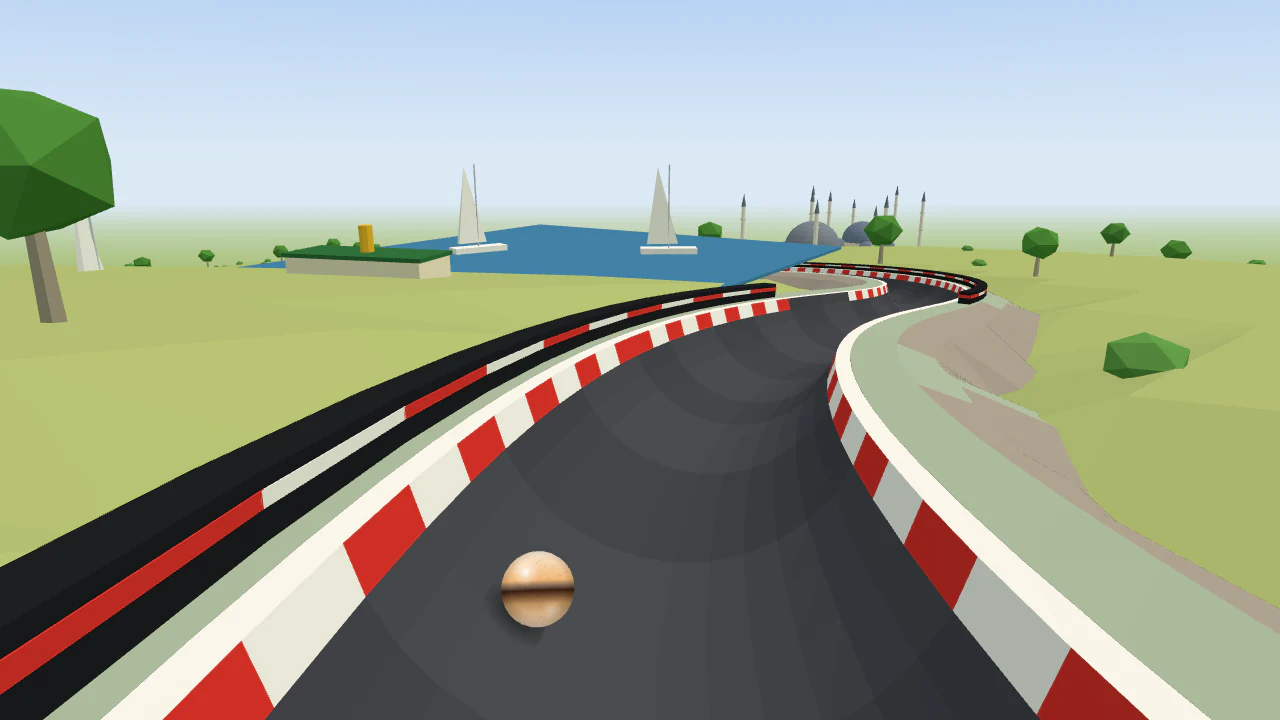
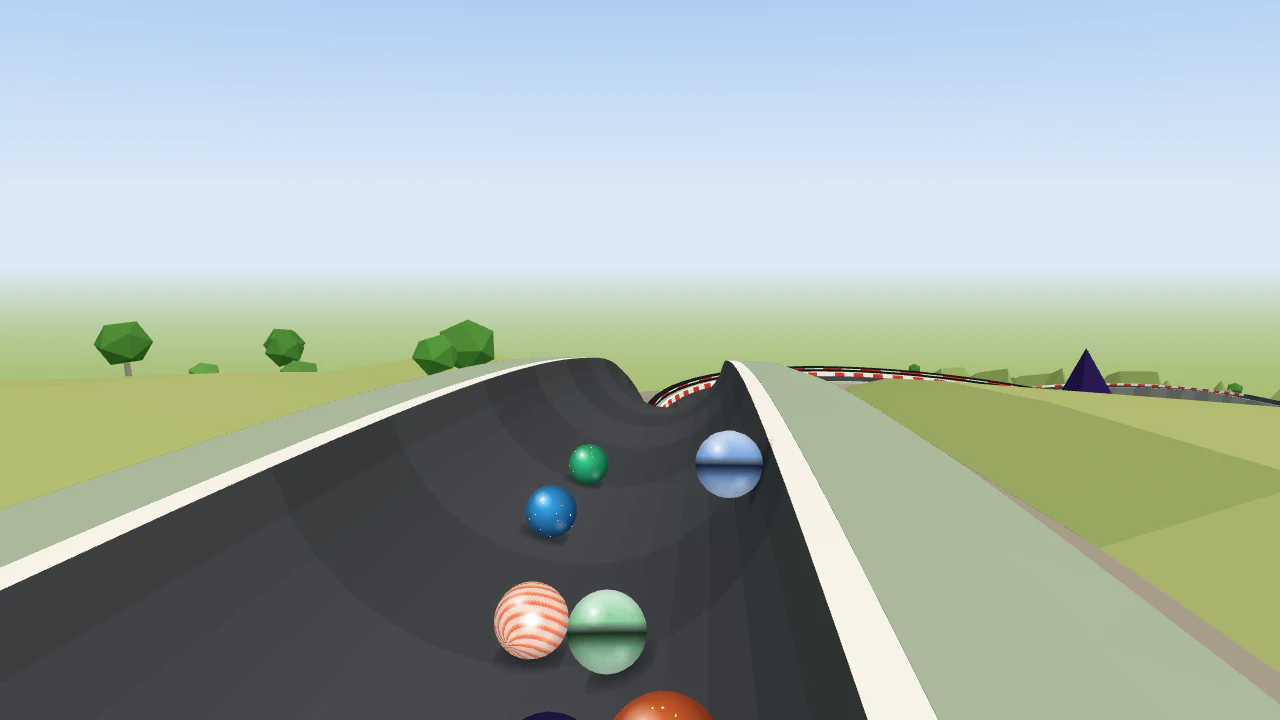
Istanbul Marble Grand Prix: its own layout; its records start again
Moses's overnight order (6 Nov 2026): no jump (the three jump tracks are used); a peg-field descent or a
bazaar tunnel spiral. Until now Istanbul raced the same race as Dubai in practice. The crest start from
the Galata Tower, the Golden Horn S-bends (a peg, a slalom, a peg), the Galata Bridge, the Grand Bazaar
spiral (the big feature: a turn and a half round the clock tower, open to the sky: a tunnel roof came too
close to the camera), the Topkapı hairpin, the Bosphorus sweep, the Ortaköy S-bends and the Bosphorus
straight; no splitter. Start shots from the side, then overhead. Full report: all 50 lines pass (winner
54.6 s, last 84.3 s, gap 16.1 s, 64 overtakes). Data update 2027-06-03-istanbul-marble-grand-prix-new-
layout.sql (--relayout: its records start again). Off the sameness test's known failures. Docs: 06,
README. Full test suite: 625 pass.

Claude-Session: https://claude.ai/code/session_011vSSkqNPL9kncfzrwF15wS

diff --git a/src/tracks/istanbul-marble-grand-prix.js b/src/tracks/istanbul-marble-grand-prix.js
@@ -1,58 +1,67 @@
 'use strict';
 
-const { track, plunge, straight, sBends, sweep, spiral, hairpin, splitter, runIn, pileUp, swipe, parked, slalom, boost, rumble } = require('../trackKit');
+// Istanbul Marble Grand Prix, its own layout (Moses, 6 Nov 2026; claude/grand-prix-relayout-plan.md). Until then it
+// raced the same race as Dubai Marble Grand Prix in practice (the Grand Prix recipe of 10 Oct 2026). Now the crest
+// start from the Galata Tower, the Golden Horn S-bends, the pegs across the Galata Bridge, the Grand Bazaar
+// spiral (the big feature: down round the clock tower; no jump, Moses: the three jump tracks are
+// used), the Topkapı hairpin, the Bosphorus sweep and the Ortaköy S-bends to the Bosphorus Bridge. Its records
+// started again with the new layout (tracks.records_since).
+const {
+  track, opening, straight, sBends, sweep, spiral, hairpin, runIn, peg, slalom, swipe, parked, rumble,
+} = require('../trackKit');
 
 module.exports = track({
   slug: 'istanbul-marble-grand-prix',
   name: 'Istanbul Marble Grand Prix',
   difficulty: 'extreme',
-  description: 'From the Galata Tower down to the Golden Horn, through the vaulted halls of the Grand Bazaar and past Hagia Sophia and the Blue Mosque to the Bosphorus.',
+  description: 'From the Galata Tower over a crest and down to the Golden Horn, across the Galata Bridge, spiralling down round the clock tower by the Grand Bazaar, past Topkapı Palace and along the Bosphorus to the bridge.',
   surface: 'asphalt',
   biome: 'city',
   lighting: 'day',
   variants: ['sunset'],
-  grandPrix: true,
-  signature: 'Grand Bazaar tunnel',
+  grandPrix: { groupsEvery: 450 }, // (the small groups of spectators further apart than usual: the drawing budget)
+  signature: 'Grand Bazaar spiral',
   tvCameras: [
-    { section: 'Grand Bazaar tunnel', at: 0.8, side: 'left', distance: 6, height: 12 },
-    { section: 'Tulip splitter', at: 0.8, side: 'left', distance: 10, height: 8 },
+    // (At the foot of the spiral, looking back up it.)
+    { section: 'Out of the bazaar', at: 0.3, side: 'right', distance: 6, height: 5 },
   ],
   billboardFrame: 'plain',
-  start: { landmark: 'galata-tower', scenery: ['colourful-houses'], shots: { countdown: 'front', launch: 'look-back' } },
+  start: { landmark: 'galata-tower', scenery: ['colourful-houses'], gate: 'barrier', shots: { countdown: 'side', launch: 'overhead' } },
   finish: { landmark: 'bosphorus-bridge', scenery: ['grandstand'] },
   designChanges: [
-    'The traffic-cone chicane is at the foot of the Galata plunge, straight after the tyre stacks, rather than on the finish straight: a start with only the tyre stacks lets the strongest marbles win too often and sends the field into the splitter sorted by strength.',
-    'The parked simit cart stands on the waterfront straight before the finish rather than in the Golden Horn S-bends: the recipe keeps parked objects to straights (on a bend one traps marbles against it).',
-    'The Tulip splitter comes straight after the Golden Horn S-bends, before the Grand Bazaar, rather than after the Palace hairpin: out of the hairpin the whole field rides one side of the channel and the splitter cannot share it out fairly (measured on Dubai Marble Grand Prix).',
-    'The Grand Bazaar\'s vaulted halls are the 50 m straight before the Palace hairpin, its braking zone, rather than a stretch of their own between the S-bends and the Old City sweep: the recipe needs a braking zone before the one sharp bend, and a longer straight after the splitter left too few overtakes (59 a race; 60 needed).',
-    'The rumble strips are on the waterfront straight between the spiral and the finish rather than on the spiral: the recipe keeps bumps off bends (marbles high on the wall are thrown off them).',
+    'A peg, a short slalom and a peg in the Golden Horn S-bends: without them the first 20 seconds raced through the same sequence as Sognefjord\'s and Chiang Mai\'s (the crest start into S-bends).',
+    'A new layout (6 Nov 2026): until then Istanbul raced the same race as Dubai Marble Grand Prix in practice (the Grand Prix recipe). No splitter now.',
+    'The crest start (the Galata plunge, its pile-up and slalom, then over a rounded crest): no other Grand Prix track opens this way, and its start shots (from the side, then overhead) are its own.',
+    'The big feature is the Grand Bazaar spiral: a turn and a half down round the clock tower, open to the sky. Drawn first inside the bazaar\'s vaulted tunnel, its roof came within 0.5 m of the follow camera on the tight turns, and market stalls round it blocked the camera, so it is open, as the plan allowed. Moses\'s other idea, a peg-field descent under Galata, is a drop (Stockholm\'s feature) and ran too slow (59.6 s winner).',
   ],
+  opening: opening('crest-start', {
+    costumes: { block: 'tyre-stack', slalom: 'traffic-cone' },
+    names: { plunge: 'Galata plunge', climb: 'Galata crest', drop: 'Down to the Golden Horn' },
+    dress: { plunge: { scenery: ['colourful-houses'] } },
+  }),
   sections: [
     {
-      name: 'Galata plunge', shape: plunge(80, { grade: 0.6 }),
-      obstacles: [pileUp({ costume: 'tyre-stack', at: 0.42 }), slalom({ costume: 'traffic-cone', from: 0.55, to: 0.97, count: 6, loss: 0.3 })],
-      scenery: ['colourful-houses'],
-    },
-    {
-      name: 'Golden Horn S-bends', shape: sBends({ first: 'left', radius: 75, degrees: 80, grade: 0.13 }), billboards: 2, scenery: ['crowd'],
+      name: 'Golden Horn S-bends', shape: sBends({ first: 'left', radius: 55, degrees: 110, grade: 0.13 }), billboards: 3,
+      obstacles: [peg({ costume: 'traffic-cone', at: 0.15, line: 'center' }), slalom({ costume: 'traffic-cone', from: 0.3, to: 0.6, count: 3, loss: 0.15 }), peg({ costume: 'traffic-cone', at: 0.75, line: 'right' })],
       landmarks: [{ name: 'harbour', at: 0.5, side: 'right', distance: 26 }],
     },
     {
-      name: 'Tulip splitter', shape: splitter({ side: 'left', balance: { tipOffset: -0.8, left: { drag: 1.32, scrub: 1.32 }, right: { drag: 0.42, scrub: 0.72 } } }),
-      around: 'tulip-garden',
+      name: 'Galata Bridge', shape: straight(40, { grade: 0.15 }),
+      obstacles: [peg({ costume: 'traffic-cone', at: 0.3, line: 'left' }), peg({ costume: 'traffic-cone', at: 0.6, line: 'right' }), peg({ costume: 'traffic-cone', at: 0.85, line: 'center' })],
     },
+    { name: 'Grand Bazaar spiral', shape: spiral({ side: 'right', radius: 42, turns: 1.5, grade: 0.2 }), around: 'clocktower' },
+    { name: 'Out of the bazaar', shape: straight(40, { grade: 0.13 }), obstacles: [slalom({ costume: 'traffic-cone', from: 0.2, to: 0.9, count: 3, loss: 0.15 })] },
+    { name: 'Topkapı hairpin', shape: hairpin({ side: 'left' }), obstacles: [swipe({ costume: 'camera-crane', side: 'high' })] },
     {
-      name: 'Old City sweep', shape: sweep({ side: 'right', radius: 80, degrees: 160, grade: 0.07 }), features: [boost({ at: 0.08 })], billboards: 4,
-      landmarks: [{ name: 'hagia-sophia', at: 0.15, side: 'left', distance: 45 }, { name: 'blue-mosque', at: 0.45, side: 'left', distance: 45 }],
+      name: 'Bosphorus sweep', shape: sweep({ side: 'right', radius: 85, degrees: 120, grade: 0.09 }), billboards: 3,
+      landmarks: [{ name: 'hagia-sophia', at: 0.2, side: 'left', distance: 45 }, { name: 'blue-mosque', at: 0.55, side: 'left', distance: 45 }],
     },
-    { name: 'Grand Bazaar tunnel', shape: straight(50, { grade: 0.12 }), tunnel: 'bazaar' },
-    { name: 'Palace hairpin', shape: hairpin({ side: 'left' }), obstacles: [swipe({ costume: 'camera-crane', side: 'high' })], scenery: ['plane-trees'] },
-    { name: 'Waterfront spiral', shape: spiral({ side: 'right', radius: 45, grade: 0.17 }) },
+    { name: 'Ortaköy S-bends', shape: sBends({ first: 'left', radius: 75, degrees: 70, grade: 0.13 }) },
     {
-      name: 'Waterfront straight', shape: straight(90, { grade: 0.15 }),
-      obstacles: [parked({ costume: 'simit-cart', at: 0.15, side: 'right', length: 4 })],
-      features: [rumble({ from: 0.55, to: 0.95, count: 4 })], billboards: 2, scenery: ['grandstand'],
-      landmarks: [{ name: 'harbour', at: 0.5, side: 'left', distance: 26 }],
+      name: 'Bosphorus straight', shape: straight(60, { grade: 0.18 }), scenery: ['grandstand'],
+      obstacles: [parked({ costume: 'simit-cart', at: 0.2, side: 'left', length: 6 })],
+      features: [rumble({ from: 0.6, to: 0.95, count: 3 })],
+      landmarks: [{ name: 'harbour', at: 0.5, side: 'right', distance: 26 }],
     },
     { name: 'Finish', shape: runIn(), scenery: ['grandstand'] },
   ],

diff --git a/test/samenessAllTracks.test.js b/test/samenessAllTracks.test.js
@@ -46,7 +46,6 @@ const KNOWN = {
   // Grand Prix (one design: Dubai's, and Sydney's mirror of it).
   'dubai-marble-grand-prix': ['opening', 'opening-kind', 'layout'],
   'sydney-marble-grand-prix': ['opening', 'opening-kind', 'layout'],
-  'istanbul-marble-grand-prix': ['opening', 'opening-kind', 'layout'],
   'nairobi-marble-grand-prix': ['opening', 'opening-kind', 'layout'],
   'delhi-red-fort-marble-grand-prix': ['opening', 'opening-kind', 'layout'],
   'sahara-marble-grand-prix': ['opening', 'opening-kind', 'layout'],

diff --git a/docs/06-decisions.md b/docs/06-decisions.md
@@ -4,6 +4,7 @@
 
 | Date | Decision | Why |
 |---|---|---|
+| 2026-11-07 | **Istanbul Marble Grand Prix's new layout built** (technical, on Moses's overnight order, 6 Nov 23:14: no jump, the three jump tracks are used; a peg-field descent or a bazaar tunnel spiral). The crest start from the Galata Tower, the Golden Horn S-bends (a peg, a short slalom and a peg: without them the first 20 seconds matched Sognefjord's and Chiang Mai's), the Galata Bridge (pegs), the Grand Bazaar spiral (the big feature and signature: a turn and a half round the clock tower), the Topkapı hairpin, the Bosphorus sweep, the Ortaköy S-bends and the Bosphorus straight; no splitter. The spiral was drawn first inside the bazaar's vaulted tunnel: its roof came within 0.5 m of the follow camera on the tight turns, and market stalls round it blocked the camera, so it is open to the sky (the plan's fallback). The peg-field descent was tried and ran too slow (59.6 s winner). Start shots from the side, then overhead. Spectator groups every 450 m (the drawing budget). Full report: all 50 lines pass (winner 54.6 s, last 84.3 s, gap 16.1 s, 64 overtakes). Data update `2027-06-03-istanbul-marble-grand-prix-new-layout.sql` (`--relayout`); off the sameness test's known failures. | Istanbul raced the same race as Dubai in practice. |
 | 2026-11-07 | **Lagos Marble Grand Prix's new layout built** (technical, on Moses's approval: the Lagoon bridge banked turn approved 6 Nov 19:31; overnight order 6 Nov 23:14). A pipe drop at the gate (no boost launch, Moses; the field let go in waves), a six-gate slalom drop down to the market (the pipe drop has no pile-up: without it the strongest marbles won too often), the market S-bends, the Lagoon bridge banked turn (the big feature: 220° on the steel bridge, grade 0.12 for the pace), S-bends round Lagos Island (not a spiral, for the overtakes), the beach, the Lekki S-bends and hairpin (turning left: turning right brought the S-bends back over the finish line, covering the phone's finish shot), the Theatre straight; no splitter. Start shots from the front, then high behind. Spectator groups every 400 m (the flyover's drawing budget). Full report: all 52 lines pass (winner 54.6 s, last 84.2 s, gap 13.6 s, 60 overtakes, strongest 45.7% vs weakest 8.5%). Data update `2027-06-02-lagos-marble-grand-prix-new-layout.sql` (`--relayout`: its records start again); off the sameness test's known failures. | Lagos raced the same race as Sydney (and Stockholm, until 6 Nov) on every seed. |
 | 2026-11-06 | **Stockholm Marble Grand Prix's new layout built** (technical, on Moses's approval of the plan): a split start (the Södermalm twin chutes), then the library's climb-drop layout mirrored: the Katarina crest and the Slussen drop (its big feature and new signature; the old Bridge sweep goes), the Gamla Stan S-bends and splitter, City Hall hairpin, Djurgården spiral, Strandvägen. Two changes to the layout from tuning: the Gamla Stan S-bends turn 85° rather than 70° (out of the 70° bends the leaders took one channel of the splitter far more often than their share) and run a little steeper, with Strandvägen too (the winner-to-last gap). The splitter's tip and inside channel are tuned (tipOffset -1.6, inside 2.6). Start shots a chase then a low chase (the planned above/low chase is Lagos's today). Full report: all 56 lines pass (winner 49.1 s, last 81.5 s, gap 17.8 s, 63 overtakes). Data update `2027-06-01-stockholm-marble-grand-prix-new-layout.sql` (`--relayout`: its records start again); it comes off the sameness test's known failures. | Stockholm raced the same race as Sydney and Lagos on every seed. |
 | 2026-11-06 | **Grand Prix re-layouts, the plan review** (Moses, 19:31). **Stockholm's new layout approved as planned** (a split start, the climb-drop layout mirrored, the Slussen drop as its big feature and a Gamla Stan splitter). **Records reset approved, personal bests included**: on a re-laid track the track record, the country records and every player's personal bests (time, split, best place) start again (`tracks.records_since`, `src/game/recordsSince.js`); past results and replays stay, and the record replays of both layouts are kept. **Jumps are capped at 3 tracks and the cap is used up**: Istanbul gets another big feature (revised plan to Moses). **Lagos gets no boost-launch opening** (it favoured the front starting group on Track and Field); the Lagoon bridge banked turn is approved; a revised opening goes to Moses. Order: the records reset and Stockholm now; Lagos and Istanbul after their revisions are approved. Videos: Sahara on 7 Nov, then Grand Prix tracks may be reused, always on a seed never used on a Grand Prix track (`client/video/DAILY-ORDER.md`). | A new layout's times can't be compared with the old one's, personal bests included; jumps stay special; the opening must not hand the race to the front gates. |

diff --git a/docs/README.md b/docs/README.md
@@ -9,7 +9,7 @@
 **Where it stands:**
 - **Website:** live at marblespins.com (Vercel builds every push to `Main`; redeployed by Moses on 1 Nov after the Blocks Series 2 switch-on). Soft start (social media, 10–20 invited test pilots) since the week of 26 Oct. **Official launch 1 Dec 2026**, with the Holiday Season, the season pass and the apps. Google Analytics 4 is on since 31 Oct (after cookie consent); the Meta Pixel is off.
 - **Tracks:** **143 live in ten series**: World Tour, Grand Prix, Coasters, Canyons, Blocks, Track and Field, Rivers (16), Peaks (15), Pinball and Arcade. The 31 holiday tracks are switched on but hidden and closed until 1 Dec 00:00 Swedish time (174 then). **Blocks Series 2: all 20 live** (two big features each): the test five since 31 Oct; the other fifteen (four cities, three rivers, four mountains, four winter tracks) switched on by Moses on 1 Nov after the server deploy. **Saint-Tropez** (World Tour) and **Pudong Marble Grand Prix** (Grand Prix), the first two tracks with the kit's loop, switched on by Moses on 4 Nov 2026 by hand in Railway's query box, after the server deploy; the website redeployed the same morning.
-- **Server:** deployed by Moses on 6 Nov 2026 from Main (code fingerprint `533b9d0d08de`, `645de71`; 487 columns): the records reset on a new layout (`tracks.records_since`) and Stockholm Marble Grand Prix's own layout (data update `2027-06-01-stockholm-marble-grand-prix-new-layout.sql`; its records started again). Before that, 4 Nov (`d7928db64307`, `ae7dc20`; 177 tracks in the database): Pudong Marble Grand Prix (data update `2027-05-31-add-pudong-marble-grand-prix.sql`). Before that, 3 Nov (`a096af4ab19a`, 176 tracks): the loop engine (physics for the track kit's `loop` piece) and Saint-Tropez (`2027-05-30-add-saint-tropez.sql`). Before that, 2 Nov (`fb4654c0885e`, last server change `6e23a24`; 486 columns): the back office Dashboard, staff accounts (`users.is_staff`), the first-visit steps (`first_steps`), guests made with what they tapped, the hourly IP clean-up, the Security tab loaded on its own and audited (`security-view`), and the first country in the Players list. **Waiting for the next server deploy:** Lagos Marble Grand Prix's new layout (data update `2027-06-02-lagos-marble-grand-prix-new-layout.sql`, which resets its records). Take a backup first.
+- **Server:** deployed by Moses on 6 Nov 2026 from Main (code fingerprint `533b9d0d08de`, `645de71`; 487 columns): the records reset on a new layout (`tracks.records_since`) and Stockholm Marble Grand Prix's own layout (data update `2027-06-01-stockholm-marble-grand-prix-new-layout.sql`; its records started again). Before that, 4 Nov (`d7928db64307`, `ae7dc20`; 177 tracks in the database): Pudong Marble Grand Prix (data update `2027-05-31-add-pudong-marble-grand-prix.sql`). Before that, 3 Nov (`a096af4ab19a`, 176 tracks): the loop engine (physics for the track kit's `loop` piece) and Saint-Tropez (`2027-05-30-add-saint-tropez.sql`). Before that, 2 Nov (`fb4654c0885e`, last server change `6e23a24`; 486 columns): the back office Dashboard, staff accounts (`users.is_staff`), the first-visit steps (`first_steps`), guests made with what they tapped, the hourly IP clean-up, the Security tab loaded on its own and audited (`security-view`), and the first country in the Players list. **Waiting for the next server deploy:** the new layouts of Lagos and Istanbul Marble Grand Prix (data updates `2027-06-02-lagos-…` and `2027-06-03-istanbul-…-new-layout.sql`, which reset their records). Take a backup first.
 - **Apps:** iPhone and Android (Capacitor) are built; the Android app is tested on Moses's phone. They need a rebuild for the keep-awake fix and the new sounds. Store submission is planned for 16–20 Nov.
 - **Email: on since 1 Nov 2026** (Brevo; `BREVO_API_KEY` and `EMAIL_FROM` on Railway, a password-reset email arrived in Moses's inbox; sender no-reply@marblespins.com since 4 Nov 2026, marblespins.com re-authenticated in Brevo that day, support replies with support@ as reply-to): password resets, "Confirm your email" for new sign-ups, support replies and contact-form notifications. The pass reminders are not sent yet.
 - **Payments:**
